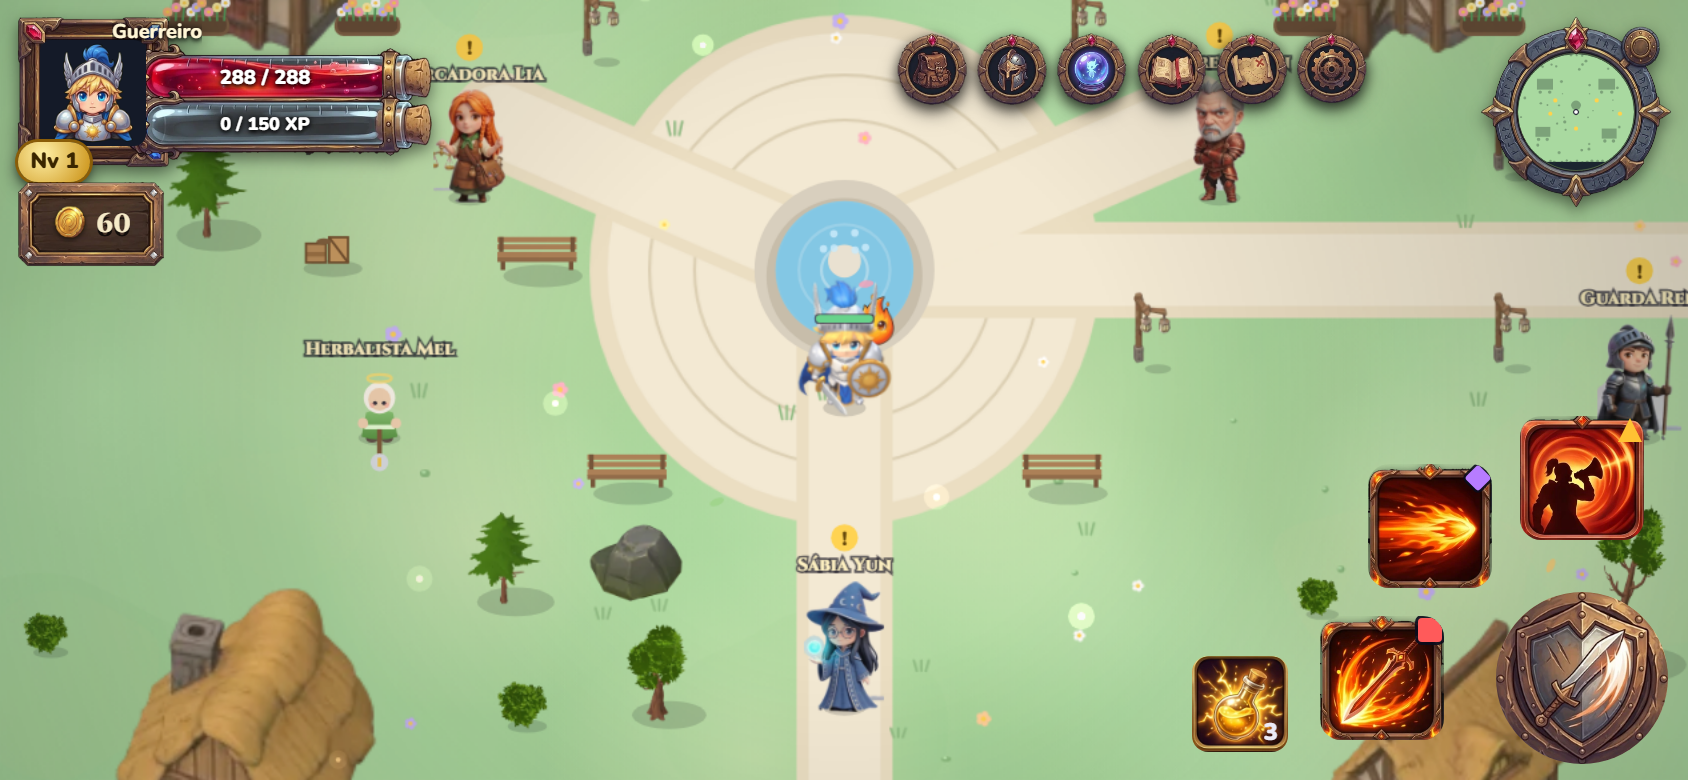
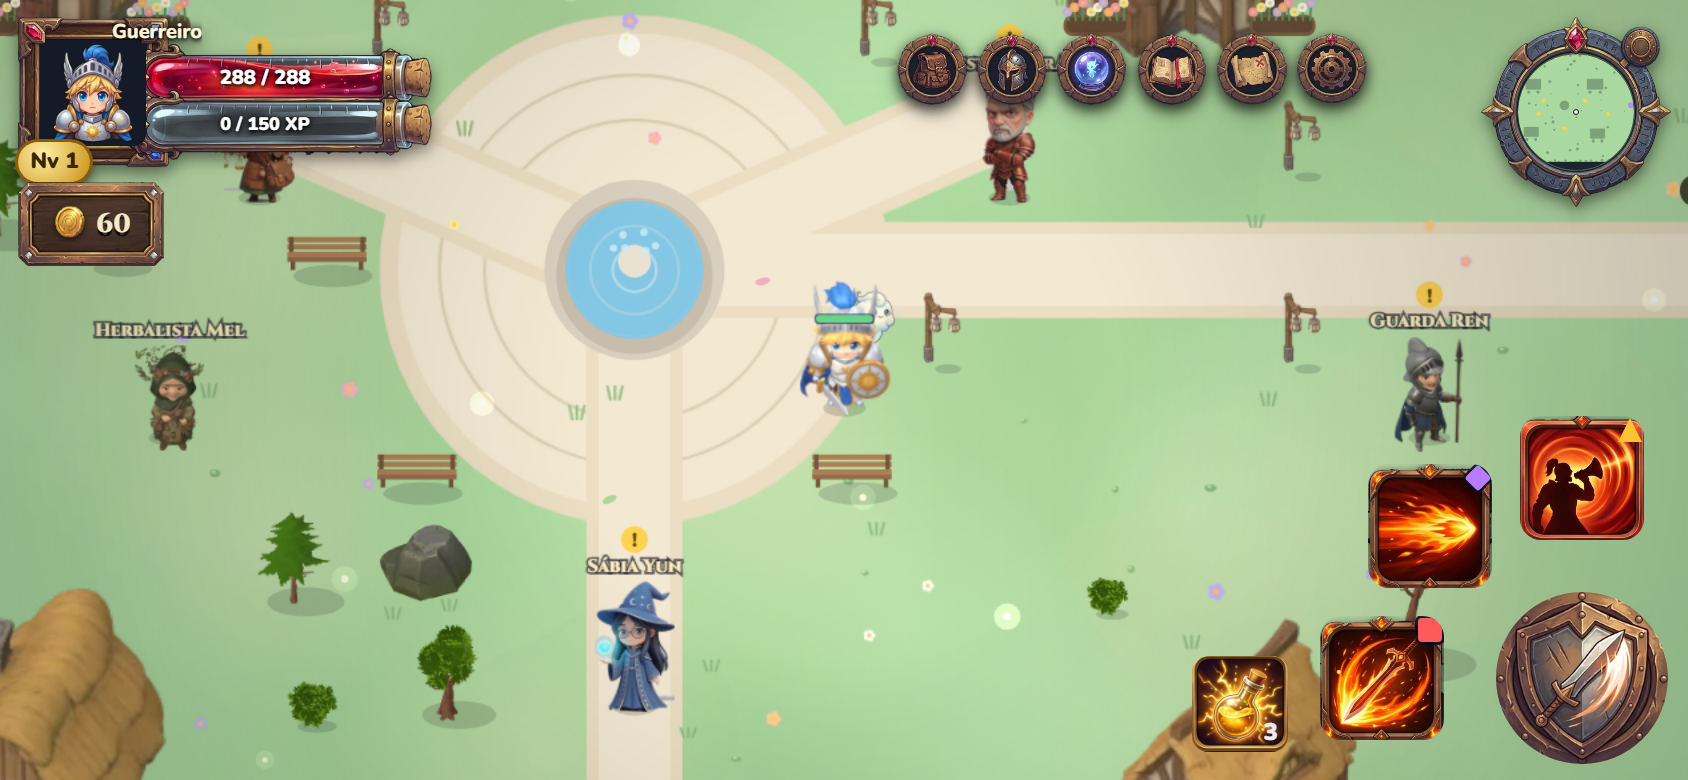
NPCs: Guarda Ren e Herbalista Mel em 3D do Meshy (Village Guardians), ferreiro guardado; mob-bake junta varias pecas e aceita elevacao; npc-from-glb

diff --git a/public/labs/nature/glb.html b/public/labs/nature/glb.html
@@ -82,7 +82,7 @@ window.previewAll = async ({ el = 40, w = 1400 } = {}) => {
 // 8 vistas de uma criatura (0 S, 1 SE, 2 L, 3 NE, 4 N, 5 NO, 6 O, 7 SO = para onde ELA olha; a frente do modelo é +Z, voltada para a câmera) numa grade 4x2,
 // com a MESMA janela, escala e âncora em todas (senão a criatura "pula" ao virar). idx = -1 junta todas as peças do arquivo numa criatura só.
 window.bakeDirs = async (idx, { el = 40, max = 168, aa = 2, pad = 0.05 } = {}) => {
-  const list = idx < 0 ? parts : [parts[idx]], group = new THREE.Group(), root = new THREE.Group(); const bb = new THREE.Box3();
+  const list = idx < 0 ? parts : Array.isArray(idx) ? idx.map((i) => parts[i]) : [parts[idx]], group = new THREE.Group(), root = new THREE.Group(); const bb = new THREE.Box3();
   for (const p of list) { const m = new THREE.Mesh(p.geo, material); group.add(m); bb.union(p.bb); }
   const foot = new THREE.Vector3((bb.min.x + bb.max.x) / 2, bb.min.y, (bb.min.z + bb.max.z) / 2); group.position.sub(foot); root.add(group); scene.add(root);
   let U = { minX: 1e9, maxX: -1e9, minY: 1e9, maxY: -1e9 }, cam0;
@@ -114,7 +114,7 @@ function deformFor(style, Hm, Dz) {
   };
 }
 window.bakeAnim = async (idx, { style = 'hop', frames = 6, el = 40, max = 128, aa = 2, pad = 0.05 } = {}) => {
-  const list = idx < 0 ? parts : [parts[idx]], bb = new THREE.Box3(); for (const p of list) bb.union(p.bb);
+  const list = idx < 0 ? parts : Array.isArray(idx) ? idx.map((i) => parts[i]) : [parts[idx]], bb = new THREE.Box3(); for (const p of list) bb.union(p.bb);
   const foot = new THREE.Vector3((bb.min.x + bb.max.x) / 2, bb.min.y, (bb.min.z + bb.max.z) / 2), sz = bb.getSize(new THREE.Vector3());
   const geos = list.map((p) => { const g = p.geo.clone(); g.translate(-foot.x, -foot.y, -foot.z); return g; });
   const orig = geos.map((g) => g.attributes.position.array.slice()), root = new THREE.Group(), group = new THREE.Group();

diff --git a/public/src/render/npc-sprites.js b/public/src/render/npc-sprites.js
@@ -3,7 +3,7 @@
 import { mobSpritesEnabled } from './mob-sprites.js';
 
 // NPCs que têm arte (evita pedir arquivos que não existem)
-export const NPC_ART = new Set(['merchant', 'arena', 'sage', 'guard']);
+export const NPC_ART = new Set(['merchant', 'arena', 'sage', 'guard', 'herbalist']);
 const WORLD_PER_PX = 0.4; // altura no mundo = altura da imagem (px) × isto: mantém as proporções entre os NPCs
 const items = new Map();
 export const stats = { drawn: 0 };
@@ -25,7 +25,7 @@ function load(id) {
 export const preloadNpcs = () => { if (mobSpritesEnabled()) for (const id of NPC_ART) load(id); };
 
 // Y (relativo aos pés do NPC) do topo do sprite pronto; null se ainda não há arte (o nome e a marca usam o ponto antigo).
-export function npcTop(id) { const it = items.get(id); return it?.state === 'ready' ? 14 - it.meta.h * WORLD_PER_PX : null; }
+export function npcTop(id) { const it = items.get(id); return it?.state === 'ready' ? 14 - it.meta.ay * WORLD_PER_PX : null; }
 
 // Desenha o NPC `o` (com x, y nos pés); devolve false se não há arte pronta.
 export function drawNpcSprite(g, o, t) {

diff --git a/tools/npc-from-glb.py b/tools/npc-from-glb.py
@@ -1,0 +1,19 @@
+# Pega a vista de FRENTE (célula 0 da grade 4x2 do mob-bake) de um NPC fotografado e grava public/assets/npcs/<id>.webp + .json (âncora nos pés).
+# Uso: node tools/mob-bake.mjs meshy-mobs/x.glb zz-<id> <peças> 260 "" 6 34   e depois   python tools/npc-from-glb.py <id> [...]
+# Escala comum: todos os NPCs de um mesmo GLB saem com 200 px por unidade do modelo (alturas proporcionais entre eles).
+import sys, os, json, time
+import numpy as np
+from PIL import Image
+root = os.path.join(os.path.dirname(__file__), '..')
+out = os.path.join(root, 'public/assets/npcs'); os.makedirs(out, exist_ok=True)
+for id_ in sys.argv[1:]:
+    meta = json.load(open(os.path.join(root, f'public/assets/mobs/zz-{id_}.json')))
+    sheet = Image.open(os.path.join(root, f'test-results/mob-bake/zz-{id_}.png')).convert('RGBA')
+    cw, ch = meta['cell']; cell = sheet.crop((0, 0, cw, ch))
+    bb = cell.getchannel('A').point(lambda v: 255 if v > 8 else 0).getbbox(); x0, y0, x1, y1 = bb
+    c = cell.crop(bb); k = 200 / meta['ppm']
+    r = c.resize((max(1, round(c.width * k)), max(1, round(c.height * k))), Image.LANCZOS)
+    ax = round((meta['ax'] - x0) * k); ay = round((meta['ay'] - y0) * k)
+    r.save(os.path.join(out, id_ + '.webp'), 'WEBP', quality=90, method=6)
+    json.dump({'id': id_, 'w': r.width, 'h': r.height, 'ax': ax, 'ay': min(ay, r.height), 'v': int(time.time())}, open(os.path.join(out, id_ + '.json'), 'w'))
+    print(id_, r.size, 'âncora', ax, ay)
